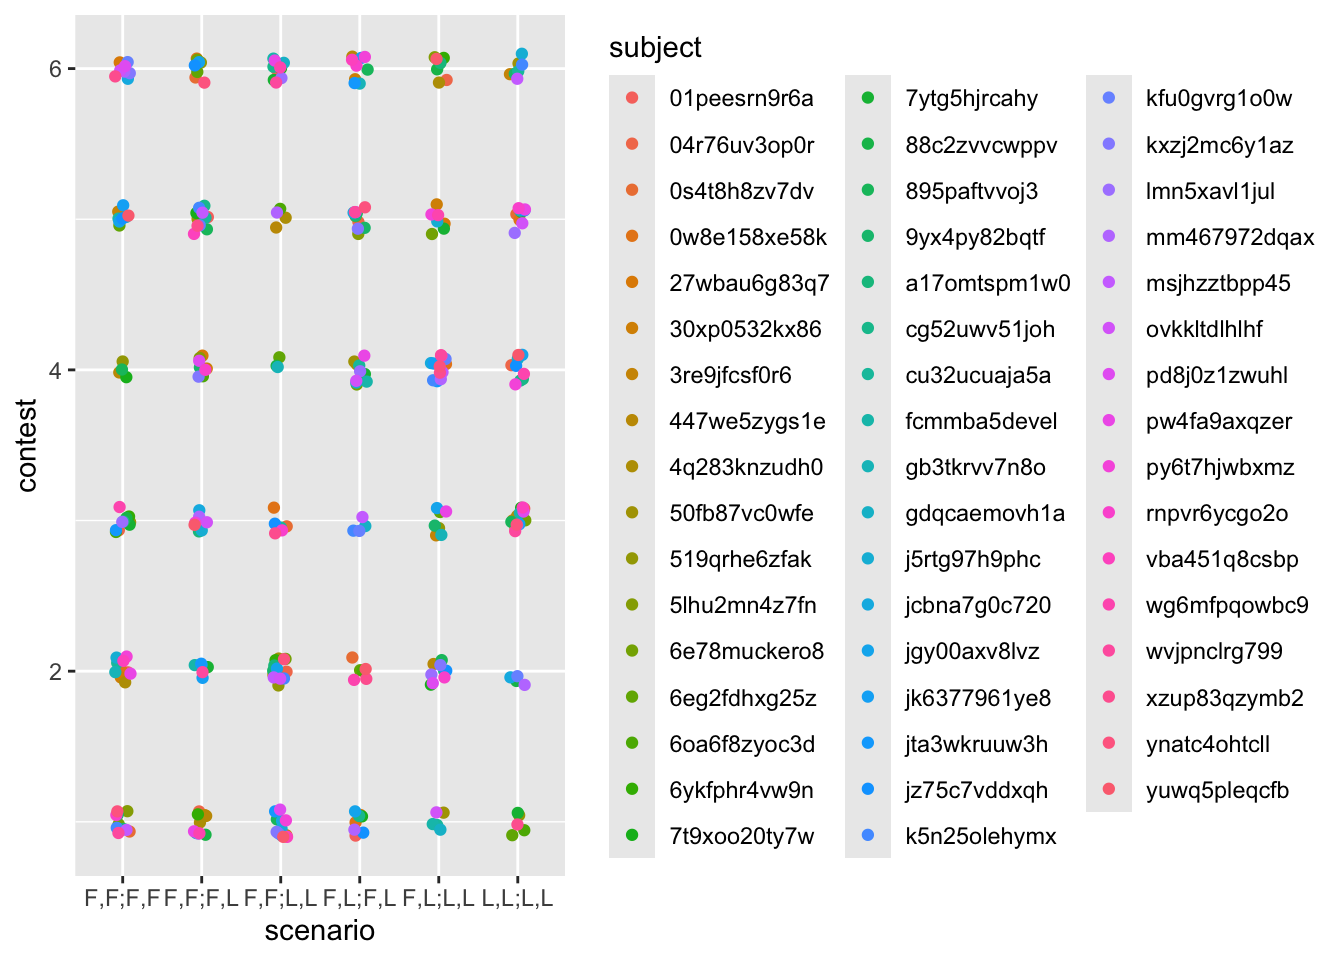
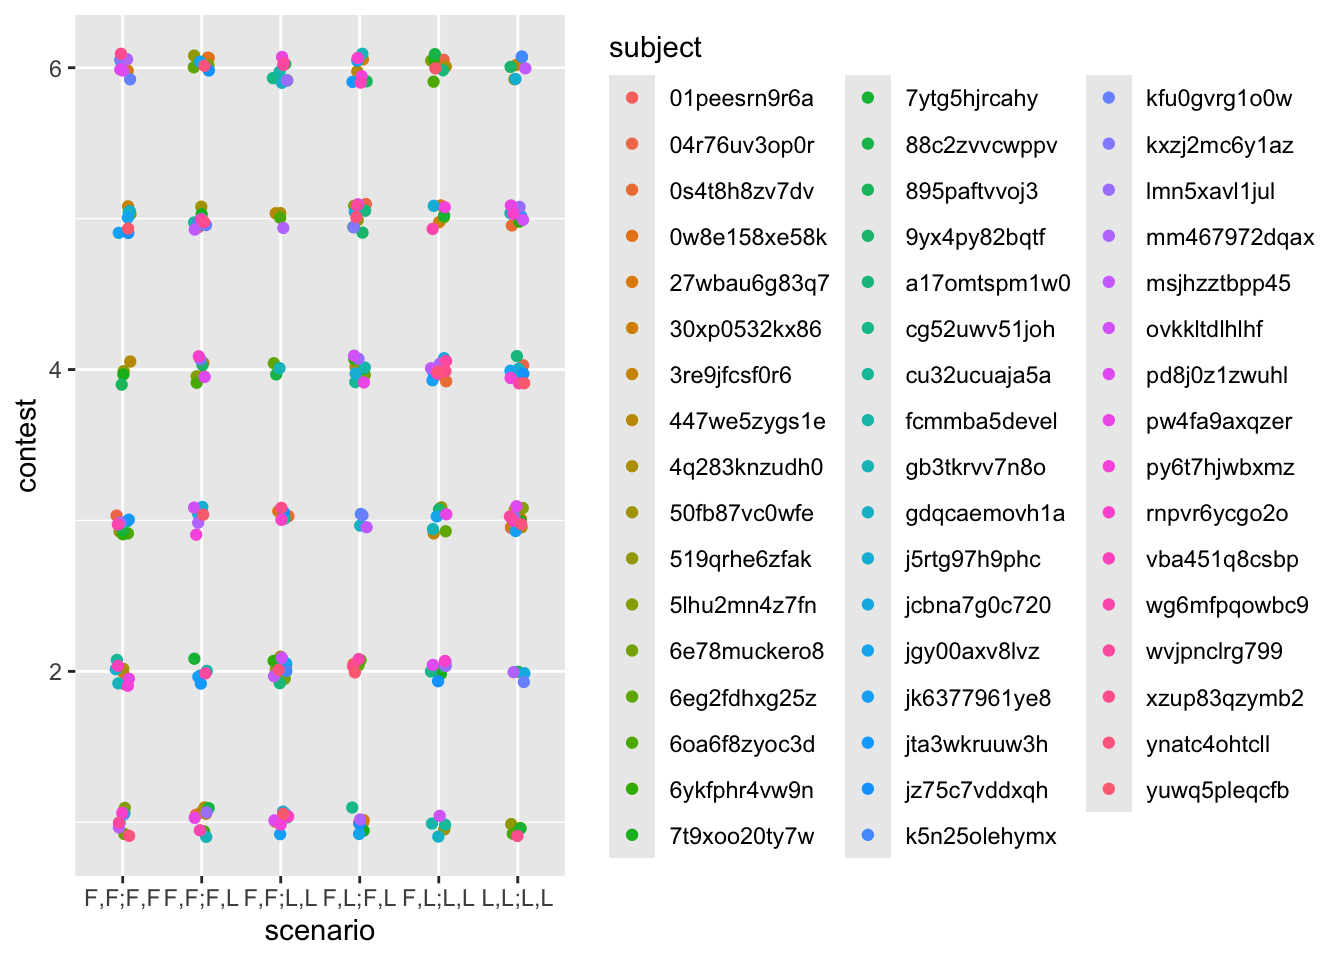
add safe joint model

diff --git a/docs/writeup/index.html b/docs/writeup/index.html
@@ -7,7 +7,7 @@
 <meta name="viewport" content="width=device-width, initial-scale=1.0, user-scalable=yes">
 
 <meta name="author" content="Jacob C. Zimmerman (j2zimmerman@ucsd.edu)">
-<meta name="dcterms.date" content="2025-11-20">
+<meta name="dcterms.date" content="2025-11-22">
 
 <title>Replication of Experiment 1 by Xiang, Vélez &amp; Gershman (2023, JEP:G)</title>
 <style>
@@ -127,7 +127,7 @@ ul.task-list li input[type="checkbox"] {
     <div>
     <div class="quarto-title-meta-heading">Published</div>
     <div class="quarto-title-meta-contents">
-      <p class="date">November 20, 2025</p>
+      <p class="date">November 22, 2025</p>
     </div>
   </div>
   
@@ -375,6 +375,27 @@ Hosted version of this report: <a href="https://psyc-201.github.io/xiang2023/wri
 <figure class="figure">
 <p><img src="./replication-fig3c-withrawdata.png" class="img-fluid figure-img"></p>
 <figcaption>Figure 3C Replication with Raw Data</figcaption>
+</figure>
+</div>
+</div>
+</div>
+</div>
+<div class="callout callout-style-default callout-note callout-titled">
+<div class="callout-header d-flex align-content-center collapsed" data-bs-toggle="collapse" data-bs-target=".callout-3-contents" aria-controls="callout-3" aria-expanded="false" aria-label="Toggle callout">
+<div class="callout-icon-container">
+<i class="callout-icon"></i>
+</div>
+<div class="callout-title-container flex-fill">
+<span class="screen-reader-only">Note</span>Figure 3C Replication with Safe Joint Model
+</div>
+<div class="callout-btn-toggle d-inline-block border-0 py-1 ps-1 pe-0 float-end"><i class="callout-toggle"></i></div>
+</div>
+<div id="callout-3" class="callout-3-contents callout-collapse collapse">
+<div class="callout-body-container callout-body">
+<div class="quarto-figure quarto-figure-center">
+<figure class="figure">
+<p><img src="./replication-fig3c-withsafejoint.png" class="img-fluid figure-img"></p>
+<figcaption>Figure 3C Replication with Safe Joint Model</figcaption>
 </figure>
 </div>
 </div>

diff --git a/TODO.md b/TODO.md
@@ -1,7 +1,9 @@
 # TODO
 
-(also see new_code/competence_effort/TODO.md)
+(also see new_code/competence_effort/TODO.md and new_code/memo-sandbox/TODO.md)
 
 - [ ] make a codebook for the anonymized data (explaining each data field)
 - [ ] create an informative README.md here (linking to OSF component)
 - [ ] create a README for the OSF component
+- [ ] clean up report (will get guidance from class)
+- [ ] make my presentation using quarto
